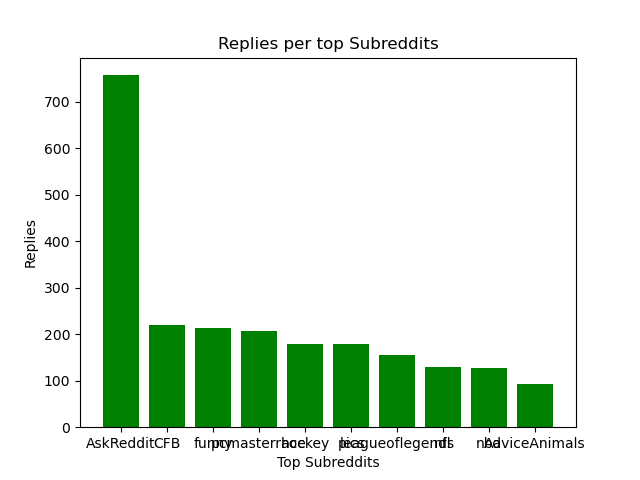
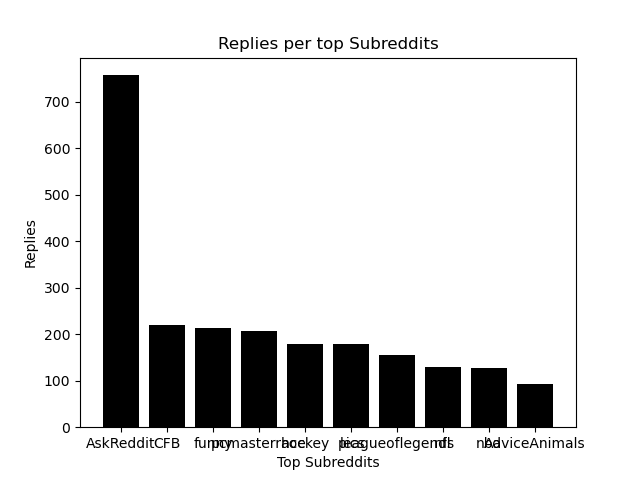
graphs

Changed region(s): [[0.1562, 0.1562, 0.875, 0.9062]]

diff --git a/generate_graphs.py b/generate_graphs.py
@@ -21,15 +21,13 @@ def plot_bar(left,height,tick_label,colors,xlabel,ylabel,title):
     plt.show()
 
 
-## Reading files
+## Reading files and ploting 
 
 f=open('./all_outputs/sub.txt','r')
 lines=f.readlines()
 sub_list=[line.split('\t')[0] for line in lines ][::-1]
 sub_count_list=[int(line.split('\t')[1].replace("\n","")) for line in lines ][::-1]
-print(sub_list)
-print(sub_count_list)
-plot_bar(left,sub_count_list,sub_list,['green'],"Top Subreddits",'Replies',"Replies per top Subreddits")
+plot_bar(left,sub_count_list,sub_list,['black'],"Top Subreddits",'Replies',"Replies per top Subreddits")
 ##############################################################################
 
 
